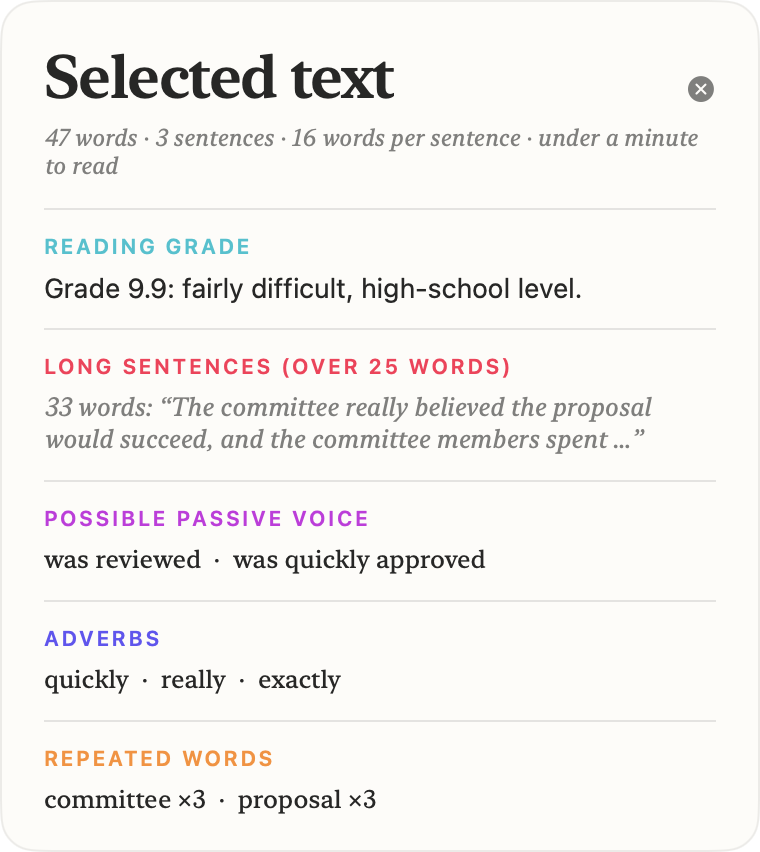
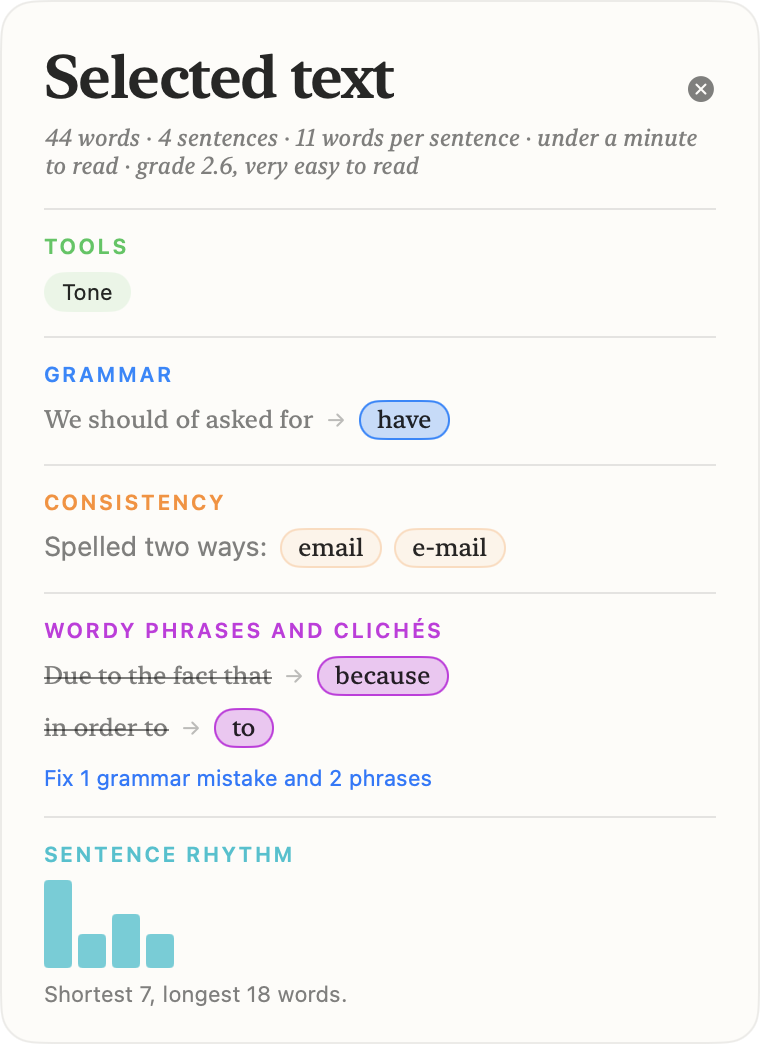
Refresh the passage screenshot and describe the Tools row

Changed region(s): [[0.0605, 0.0305, 0.9382, 0.5493], [0.0605, 0.5798, 0.6355, 0.9765], [0.9079, 0.061, 0.9382, 0.1221]]

diff --git a/README.md b/README.md
@@ -9,7 +9,7 @@ WordPop lives in the menu bar and stays out of the Dock.
   &nbsp;
   <img src="docs/quick-search.png" width="300" alt="Quick Search with the pattern con* : agree, listing consent, conform, concede, concord, consort and concur with their meanings" valign="top">
   &nbsp;
-  <img src="docs/passage.png" width="300" alt="Notes on a selected passage: word count, reading grade, a long sentence, possible passive voice, adverbs and repeated words" valign="top">
+  <img src="docs/passage.png" width="300" alt="Notes on a selected passage: counts and reading grade, a Tools row, a grammar fix (should of to have), e-mail spelled two ways, wordy phrases with fixes, and sentence rhythm bars" valign="top">
 </p>
 
 ## Features
@@ -30,14 +30,14 @@ WordPop lives in the menu bar and stays out of the Dock.
 - **Quick Search.** Press `⌃⌥⌘S` to open a search bar and type a word directly, without selecting text first. Start with `?` to describe a meaning instead ("?the smell of rain on dry earth" → petrichor, "?a happy accident" → serendipity); this uses the on-device model and checks every suggestion against its dictionary definition.
 - **Spelling help.** Not sure how a word is spelled? Type your best guess in Quick Search: if it is misspelled, the close words are listed with their part of speech and first definition, so you can pick the right one by meaning. A misspelled word you select gets a "Did you mean" row in the popup. Click "Replace with" to fix it with the top suggestion, or `⌥`-click another pill to use that one. In a selected passage, the Spelling notes list each typo with its fixes; choose the ones you want and click "Fix typos". Suggestions come from the macOS spell checker and work offline.
 - **Pattern search.** In Quick Search, `*` stands for any letters and `?` or `_` for one: `b??t` lists best, beat, boat. Add `: meaning` to keep only synonyms of a word: `con* : agree` gives consent, concur.
-- **Notes on a passage.** Select eight or more words, or one sentence of five or more words, and press the lookup shortcut to see word and sentence counts, the reading grade, typos, grammar mistakes, mixed spellings, wordy phrases, long sentences, possible passive voice, -ly adverbs and repeated words. With Apple Intelligence, a long sentence can be split and a passive one made active, and Replace puts the rewrite into your text.
+- **Notes on a passage.** Select eight or more words, or one sentence of five or more words, and press the lookup shortcut. The top line gives word and sentence counts, reading time and the reading grade; below come typos, grammar mistakes, mixed spellings, wordy phrases, long sentences, possible passive voice, -ly adverbs and repeated words, each only when the passage has some. Reframe, Tone and Transitions sit in one Tools row and open one at a time. With Apple Intelligence, a long sentence can be split and a passive one made active, and Replace puts the rewrite into your text.
 - **Grammar notes.** Notes on a passage list grammar mistakes that the macOS checker finds, each with its correction: "a apple" → an, "They was" → were, "should of" → have, "Its a nice day" → It's, "taller then" → than. They are fixed together with typos and wordy phrases. The checker misses many mistakes, so no note does not mean no mistake.
 - **Sentence rhythm.** For three or more sentences, notes on a passage draw a bar for each sentence, as tall as it is long, with long sentences in red. When three or more sentences in a row are about the same length, the note says so, as that can read flat. Point at a bar to see its sentence.
 - **Consistency.** Notes on a passage point out what the text does two ways: one word spelled with and without a hyphen ("e-mail" and "email"), British and American spelling together ("colour" and "center"), straight and curly quotes, one and two spaces after a sentence, and acronyms used before they are spelled out ("STE" with no "Simplified Technical English (STE)" first). Pick a spelling, or **British** or **American**, and the fix button makes the passage use it throughout. British and American spellings are not listed as typos.
 - **Wordy phrases and clichés.** Notes on a passage list wordy phrases with a shorter way to say each ("in order to" → to, "due to the fact that" → because, "needless to say" → remove) and clichés with a plainer one ("low-hanging fruit" → easy wins). Wordy fixes start chosen and clichés do not; click a fix to choose it or not, then **Tighten** puts them into your text, together with any chosen typo fixes. The lists are in `scripts/wordy.txt` and `scripts/cliches.txt`.
-- **Reframe a sentence.** Select one sentence to get Reframe buttons: Clearer, Shorter, Lead with the point and More confident. In apps that share the text around your selection, the on-device model also reads the sentences before and after it, so names, tense and terms stay the same. Replace puts the new sentence in place of the old one.
-- **Tone check.** With Apple Intelligence, notes on a passage have a "How will this come across?" link. The on-device model says how a reader will most likely take the text (warm, neutral, formal, curt, defensive, uncertain and others) and which words make it read that way: "Reads as defensive. The phrase 'As I already explained' …". In tests the same text got the same reading in 20 of 21 runs.
-- **Transitions.** Select one sentence to get Transitions: pick a job (Add, Contrast, Cause, Example, Sequence, Emphasis, Sum up), then a connector such as "However" or "As a result". The popup shows the sentence with it ("Even so, the new plan cut our costs by half."), and Replace puts it in your text. A connector the sentence already starts with is swapped, and names, acronyms and "I" keep their capital. Works offline.
+- **Reframe a sentence.** Select one sentence and open **Reframe** in the Tools row: Clearer, Shorter, Lead with the point and More confident. In apps that share the text around your selection, the on-device model also reads the sentences before and after it, so names, tense and terms stay the same. Replace puts the new sentence in place of the old one.
+- **Tone check.** With Apple Intelligence, open **Tone** in the Tools row of the notes on a passage and click "How will this come across?". The on-device model says how a reader will most likely take the text (warm, neutral, formal, curt, defensive, uncertain and others) and which words make it read that way: "Reads as defensive. The phrase 'As I already explained' …". In tests the same text got the same reading in 20 of 21 runs.
+- **Transitions.** Select one sentence and open **Transitions** in the Tools row: pick a job (Add, Contrast, Cause, Example, Sequence, Emphasis, Sum up), then a connector such as "However" or "As a result". The popup shows the sentence with it ("Even so, the new plan cut our costs by half."), and Replace puts it in your text. A connector the sentence already starts with is swapped, and names, acronyms and "I" keep their capital. Works offline.
 - **Repeated in this paragraph.** When you look up a word that you used three or more times in its paragraph (counting forms such as "reports" and "reported"), the popup says so, with the synonyms ready to vary it.
 - **Your crutch words.** WordPop counts the words you replace with a synonym from the popup. After you replace a word three times, the popup says so when you look it up again ("You have replaced "very" 3 times before"), and notes on a passage list the crutch words the passage uses. The counts stay on your Mac; **Clear History** in the menu bar menu removes them.
 - **Starred words.** Star a word in the popup (`⌘D`) to keep it in a personal word bank. Starred words come first in Quick Search, **Copy Starred Words** in the menu bar menu copies the list, and **Practice Starred Words** quizzes you on them: match the definition, or fill the blank in a fresh sentence.
@@ -50,7 +50,7 @@ WordPop lives in the menu bar and stays out of the Dock.
 - **Other languages.** If a word is not in the English dictionary, WordPop tries the other dictionaries you have enabled in Dictionary.app (for example Spanish or German) and shows that entry.
 - **Rhymes**, grouped by syllable count and ranked by how common the word is, plus near rhymes for words with few perfect ones ("orange" → storage, porridge).
 - **Phrases and phrasal verbs** ("on the quiet", "run out of") from the entry, in a collapsible section, along with **etymology**.
-- **Preferences** for the two shortcuts, text size, popup position (screen centre or next to the pointer), which popup sections show, and Launch at Login. If another app already holds a shortcut, WordPop says so at launch.
+- **Preferences** for the two shortcuts, text size, popup position (screen centre or next to the pointer), which sections show in the popup and in the notes on a passage, and Launch at Login. A hidden wordy-phrase, consistency or crutch-word section is not checked at all. If another app already holds a shortcut, WordPop says so at launch.
 - **100% offline.** Every lookup runs against local data, and the language model features use Apple's on-device model. Nothing you look up leaves your machine.
 
 ## Requirements
